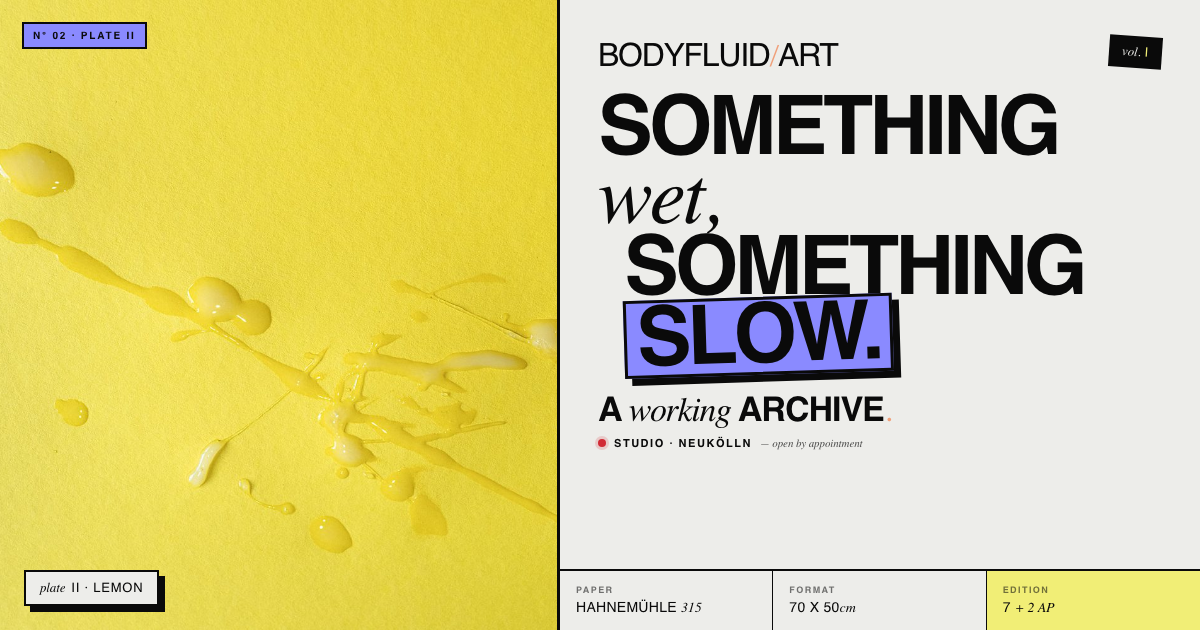
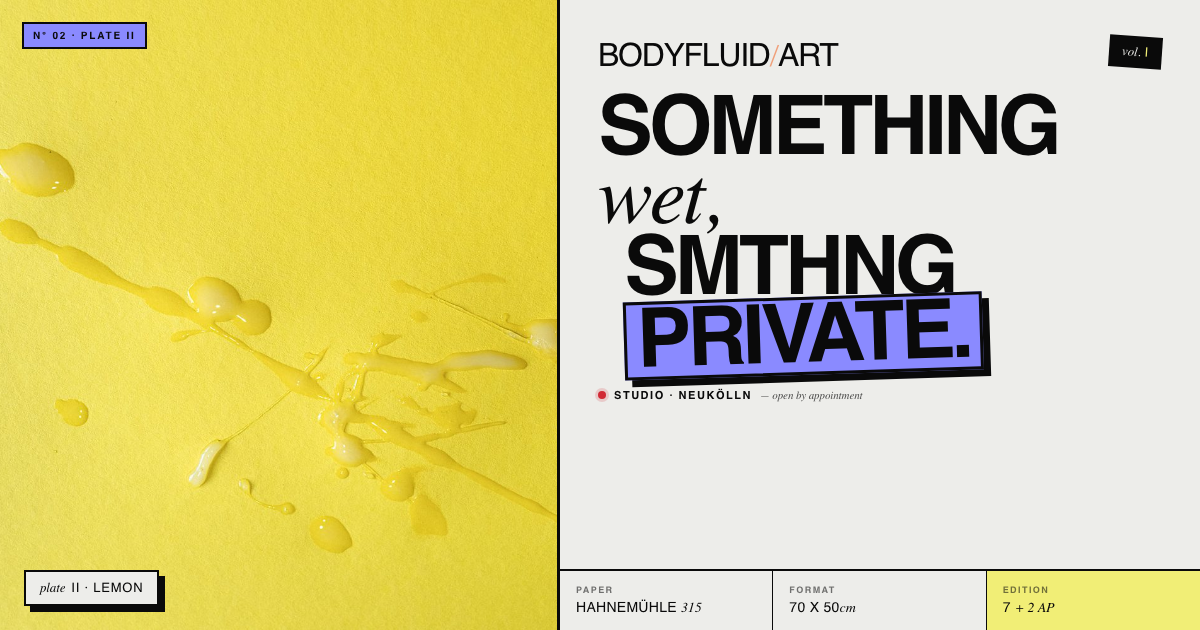
og-preview

Changed region(s): [[0.4933, 0.3619, 0.925, 0.7238]]

diff --git a/index.html b/index.html
@@ -15,10 +15,10 @@
 <meta property="og:image:type" content="image/jpeg" />
 <meta property="og:image:width" content="1200" />
 <meta property="og:image:height" content="630" />
-<meta property="og:image:alt" content="Bodyfluid — Something wet, something slow. A working archive. Plate II · Lemon." />
+<meta property="og:image:alt" content="Bodyfluid — Something wet, something private. Plate II · Lemon." />
 <meta name="twitter:card" content="summary_large_image" />
 <meta name="twitter:image" content="https://bodyfluid.art/og-preview.jpg" />
-<meta name="twitter:image:alt" content="Bodyfluid — Something wet, something slow. A working archive. Plate II · Lemon." />
+<meta name="twitter:image:alt" content="Bodyfluid — Something wet, something private. Plate II · Lemon." />
 <link rel="preconnect" href="https://fonts.bunny.net" crossorigin>
 <link href="https://fonts.bunny.net/css2?family=Archivo:wght@400;500;700;900&family=Archivo+Black&family=Newsreader:ital,opsz,wght@0,6..72,300;0,6..72,400;1,6..72,300;1,6..72,400&display=swap" rel="stylesheet">
 <style>

diff --git a/og-preview.html b/og-preview.html
@@ -283,8 +283,7 @@
 
         <h1 class="megatype">
           <span class="l1">SOMETHING <span class="ital">wet,</span></span>
-          <span class="l2">SOMETHING <span class="pop">SLOW.</span></span>
-          <span class="l3">A <span class="ital">working</span> ARCHIVE<span class="punct">.</span></span>
+          <span class="l2">SMTHNG <span class="pop">PRIVATE.</span></span>
         </h1>
 
         <div class="live-row">